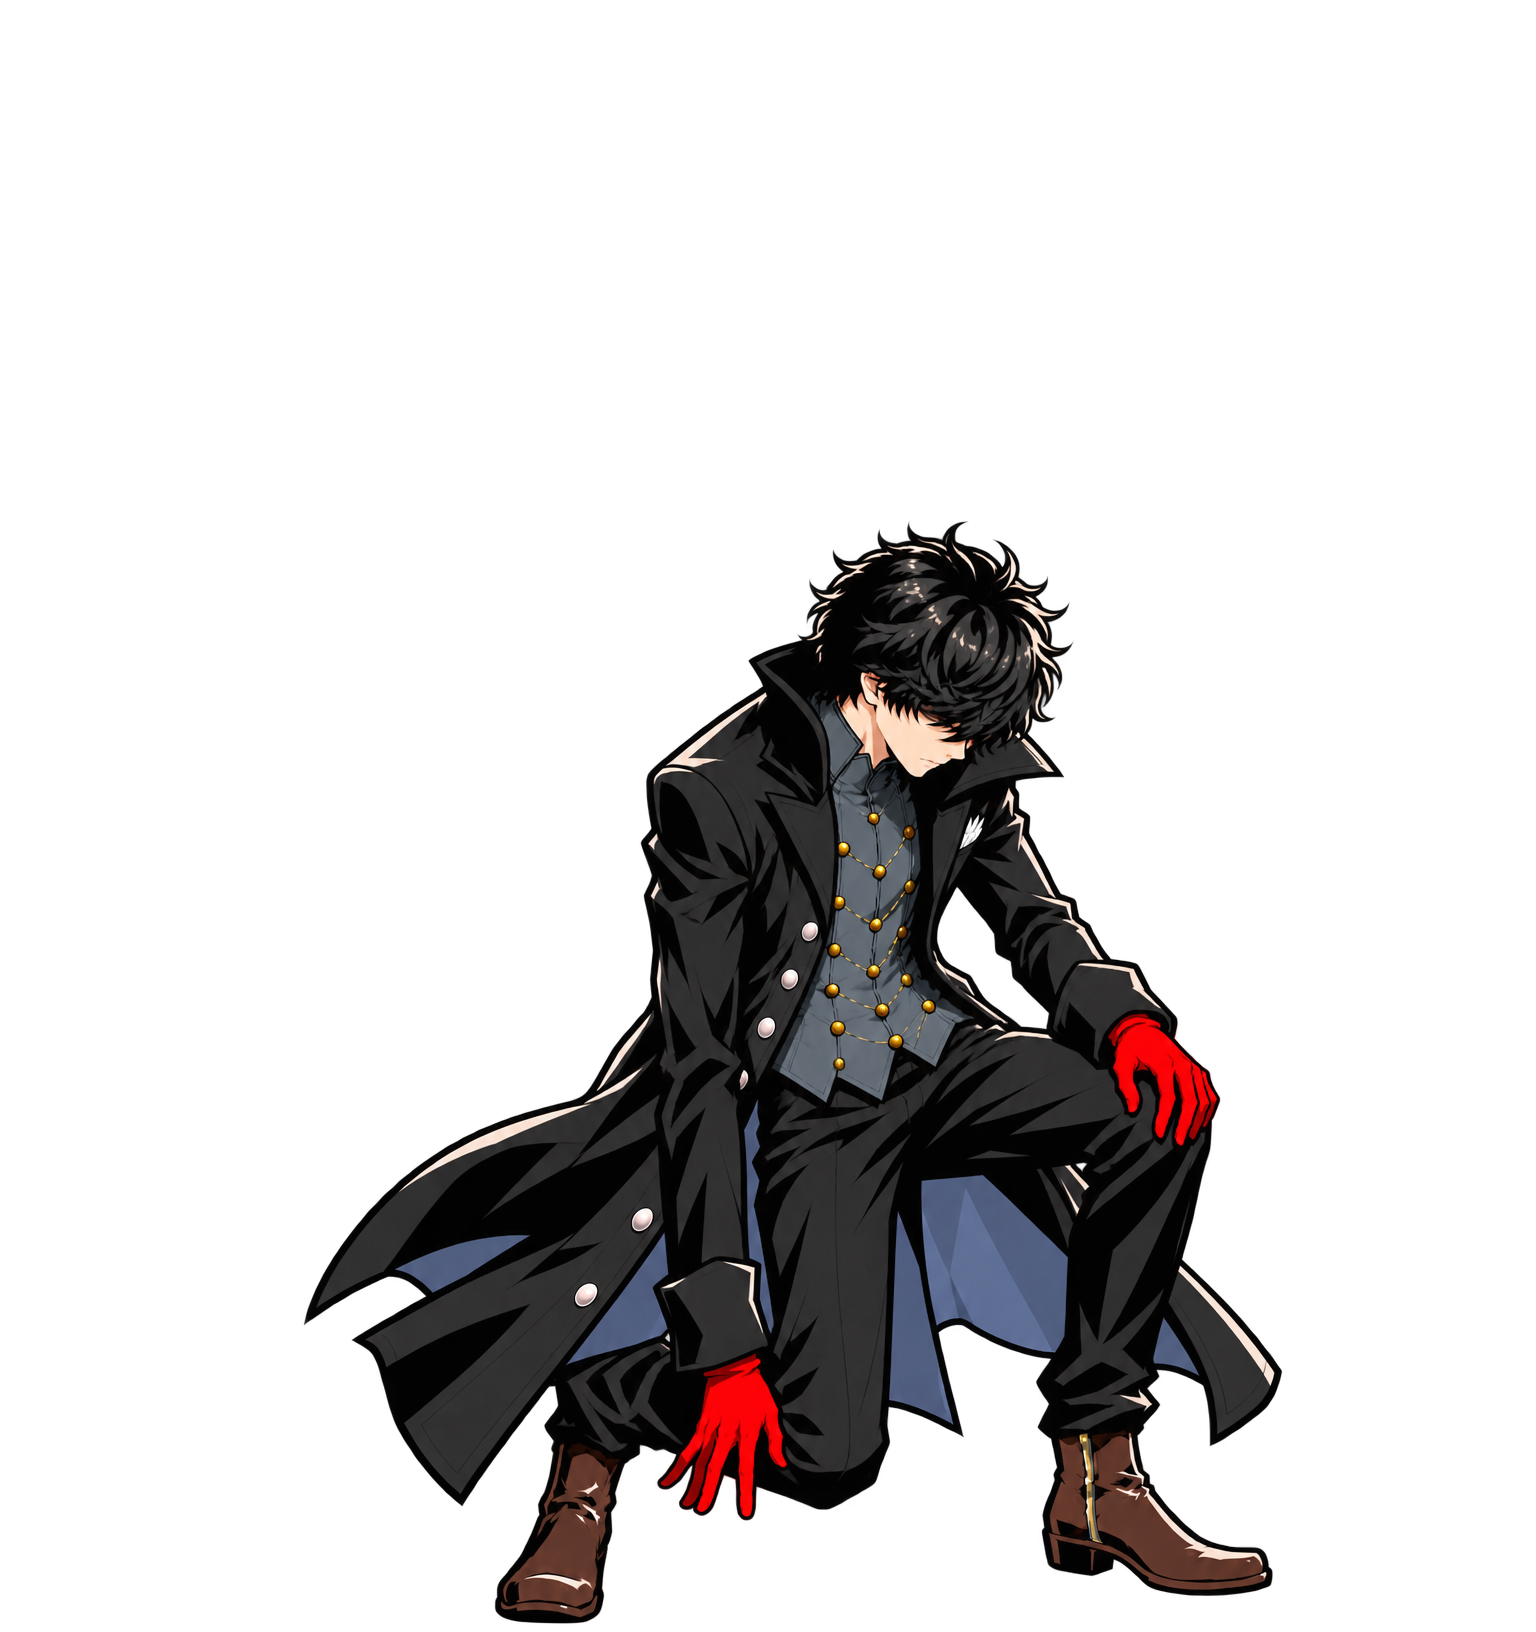
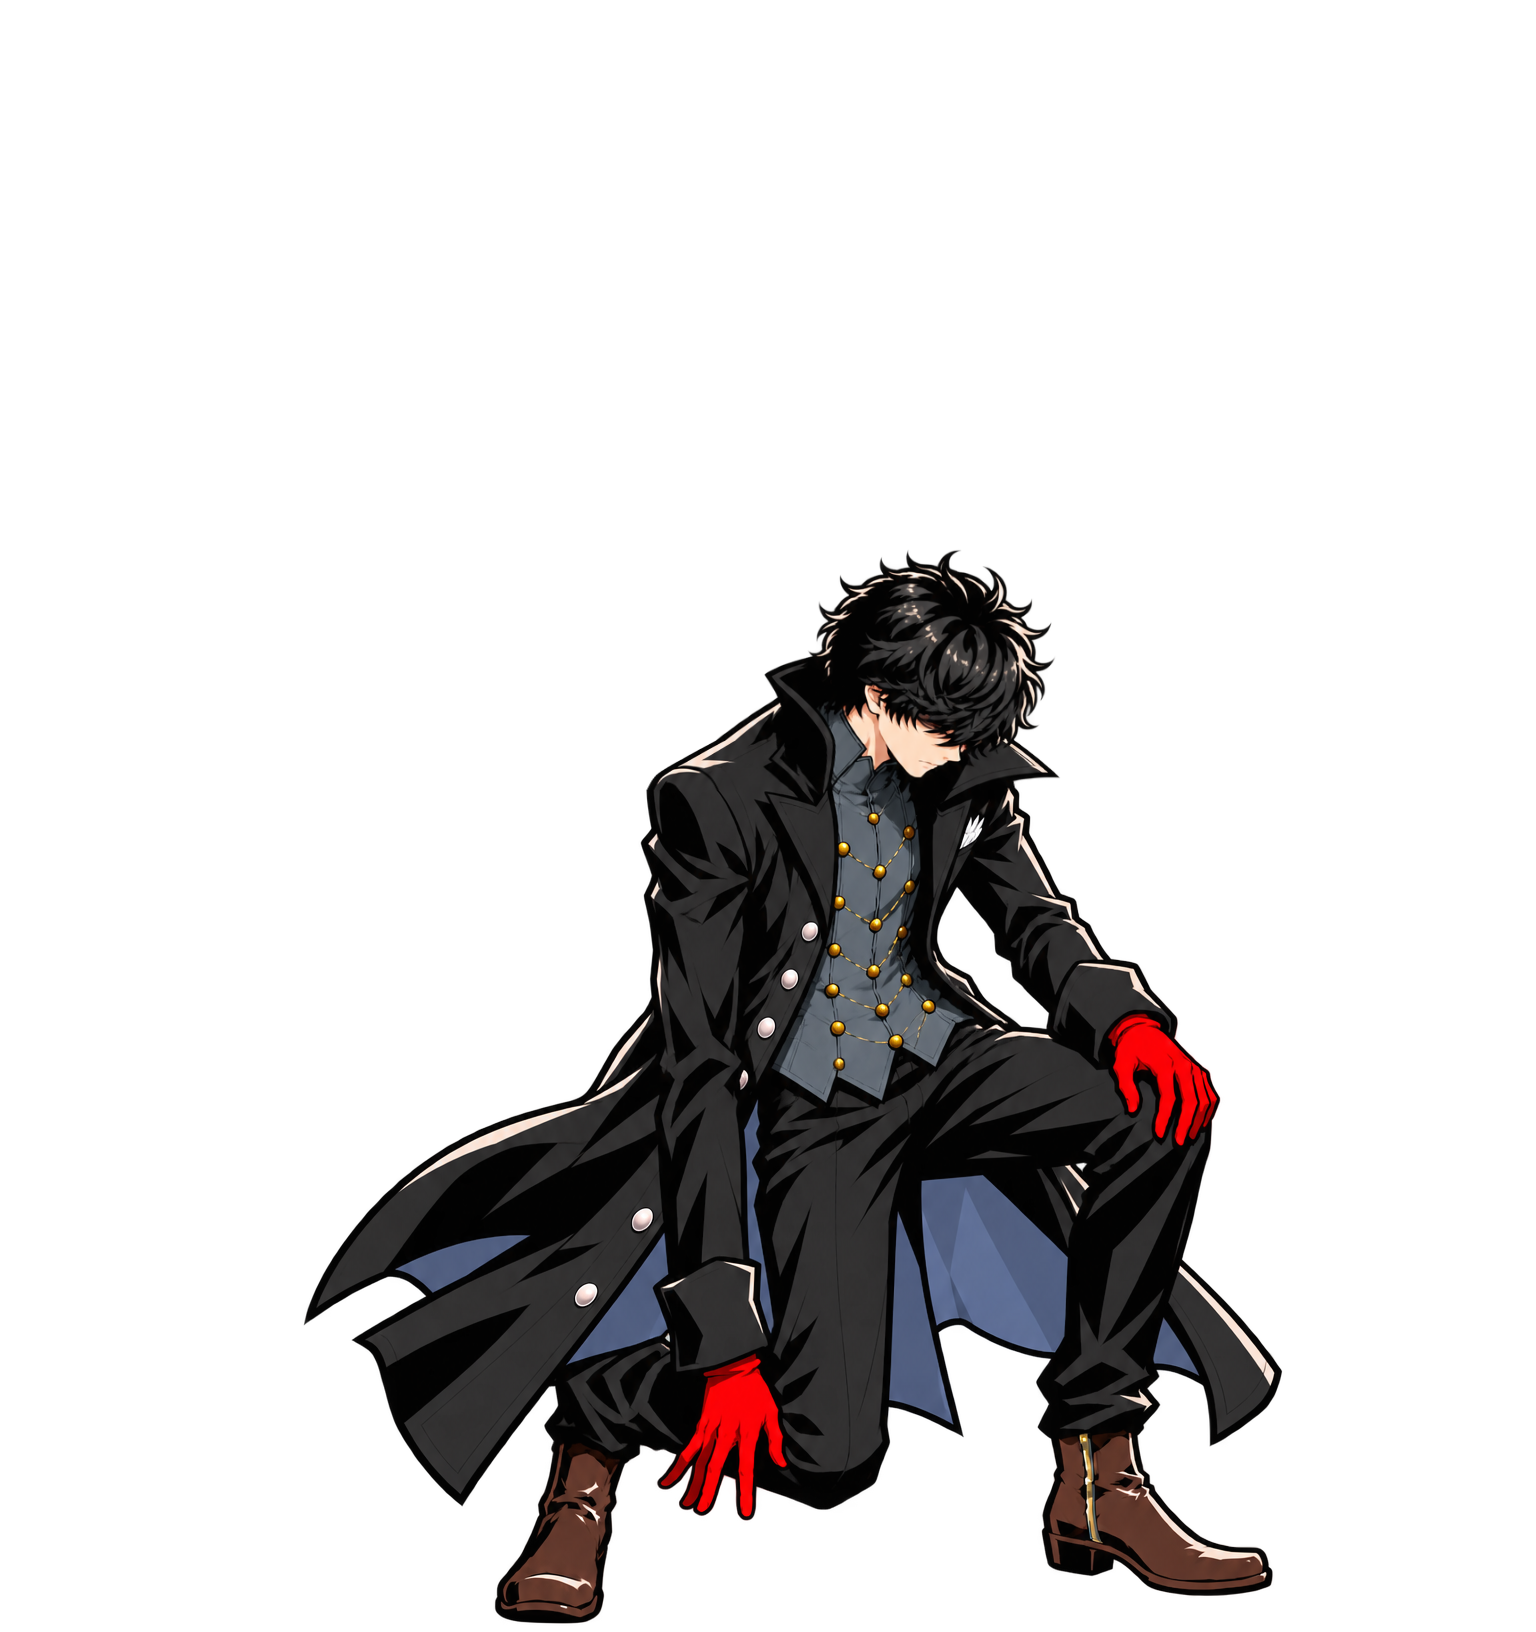
art: P5 die_buckle_a head shrunk to match; lying frames slide back inside the canvas
Claude-Session: https://claude.ai/code/session_01Nam5m2bn9ofCCWTGM6fwcN

Changed region(s): [[0.4062, 0.3125, 0.6875, 0.5]]

diff --git a/tools/p5/normalize_poses.py b/tools/p5/normalize_poses.py
@@ -86,6 +86,8 @@ def main():
             sole = max(ref_feet[0][1], ref_feet[1][1]) + 6  # idle's lowest pixel
             cx = (ref_feet[0][0] + ref_feet[1][0]) / 2
             ox, oy = round(PAD + cx - (xs.min() + xs.max()) / 2), round(TOP + sole - ys.max())
+            # a stretched-out body can be nearly as wide as the canvas: slide it back inside
+            ox = int(min(max(ox, 4 - xs.min()), 1024 + 2 * PAD - 4 - xs.max()))
             res = Image.new('RGBA', (1024 + 2 * PAD, 1536 + TOP), (0, 0, 0, 0))
             res.alpha_composite(big, (max(0, ox), max(0, oy)), (max(0, -ox), max(0, -oy)))
             res.save(OUT / f'{n}.png')
